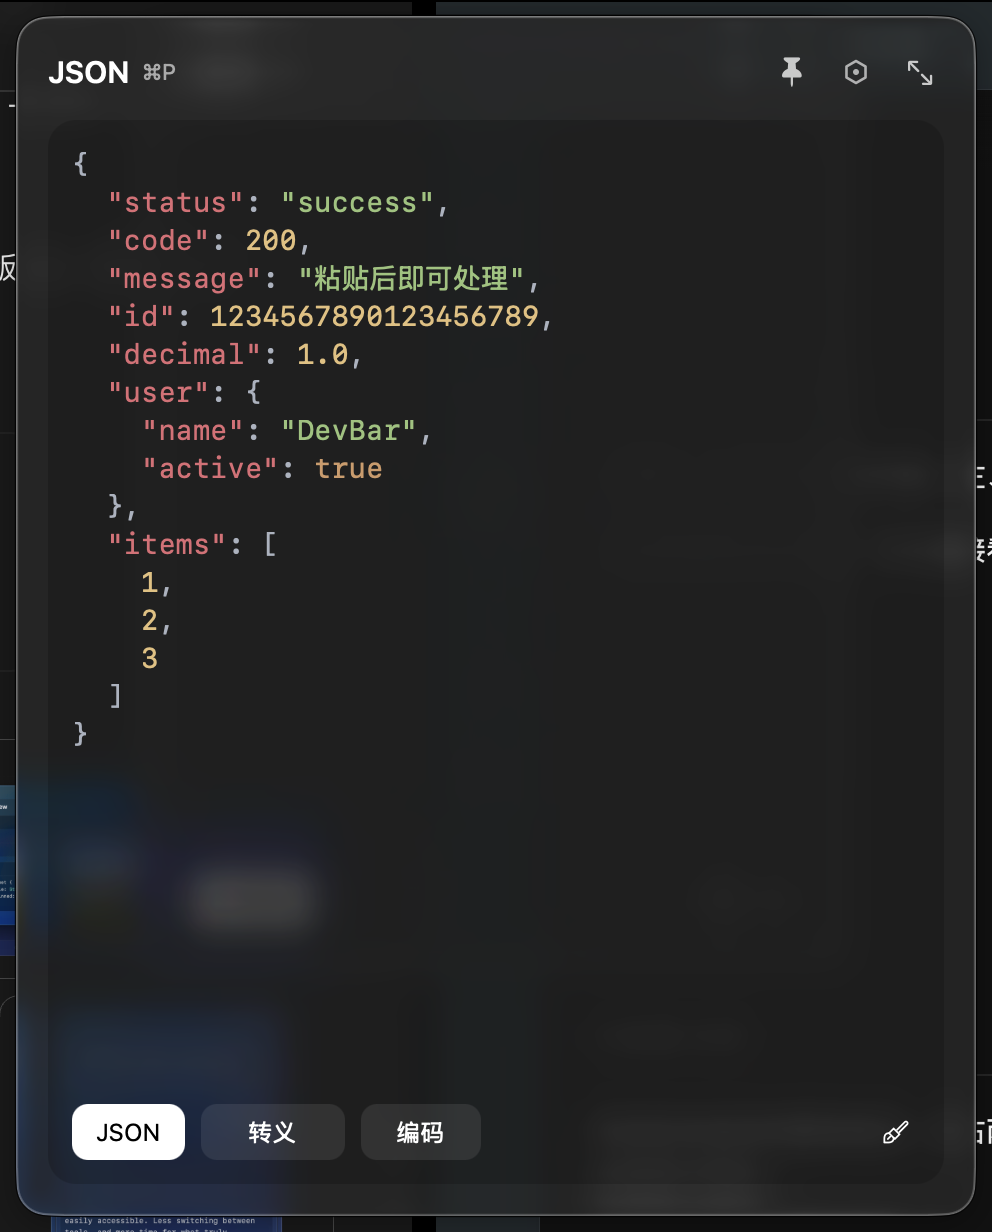
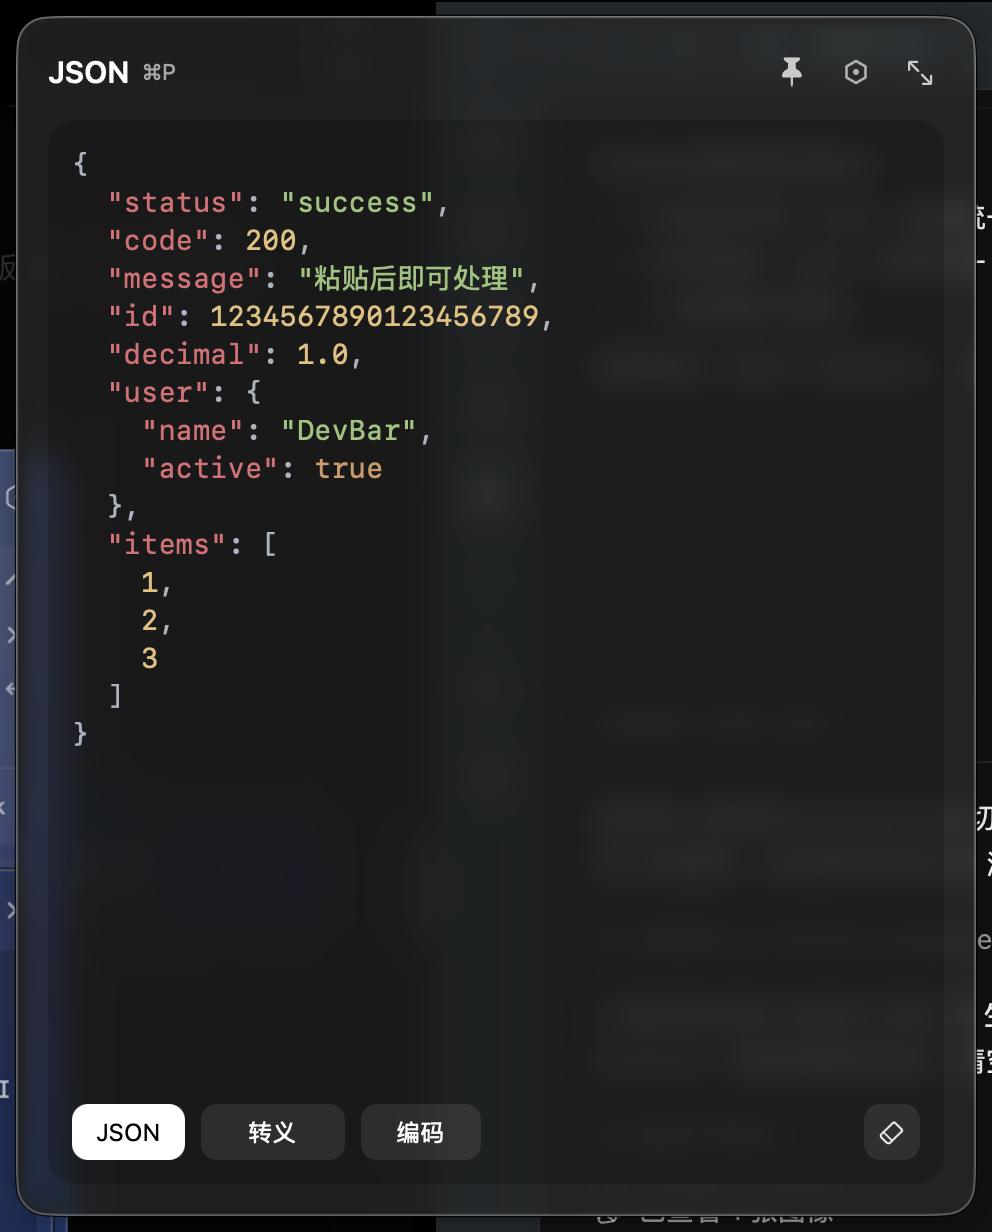
T3.7 补充：统一预览编辑文案并采用带底框的系统复制清空图标

diff --git a/Web/src/editor/page-shell.ts b/Web/src/editor/page-shell.ts
@@ -1,3 +1,5 @@
+import copySymbol from "../assets/icons/copy.png";
+import clearSymbol from "../assets/icons/clear.png";
 import { EditorView } from "@codemirror/view";
 import { StateEffect, type Extension } from "@codemirror/state";
 import {
@@ -37,6 +39,12 @@ const icons: Record<string, string> = {
 };
 export function setIcon(button: HTMLButtonElement, name: string): void {
   button.innerHTML = `<svg viewBox="0 0 24 24" fill="none" stroke="currentColor" stroke-width="1.5" stroke-linecap="round" stroke-linejoin="round" aria-hidden="true">${icons[name] ?? ""}</svg>`;
+  if (name === "copy" || name === "clear") {
+    const icon = element("span", "system-icon");
+    icon.setAttribute("aria-hidden", "true");
+    icon.style.maskImage = `url("${name === "copy" ? copySymbol : clearSymbol}")`;
+    button.replaceChildren(icon);
+  }
   button.setAttribute(
     "aria-label",
     String(strings[name as keyof typeof strings] ?? name),

diff --git a/Web/src/styles/pages.css b/Web/src/styles/pages.css
@@ -100,7 +100,7 @@
 }
 .page-fixed {
   display: flex;
-  gap: 2px;
+  gap: 8px;
   flex: none;
   align-items: center;
 }
@@ -272,4 +272,23 @@ button:disabled {
 }
 .snapshot-root .tree-buttons {
   display: none;
+}
+
+/* SF Symbols alpha masks inherit the current theme's foreground color. */
+.system-icon {
+  display: block;
+  width: 18px;
+  height: 18px;
+  background: currentColor;
+  mask-position: center;
+  mask-size: contain;
+  mask-repeat: no-repeat;
+}
+.page-fixed .icon-button {
+  display: flex;
+  align-items: center;
+  justify-content: center;
+  width: 28px;
+  height: 28px;
+  background: var(--panel-control);
 }

diff --git a/Web/src/qr/page.ts b/Web/src/qr/page.ts
@@ -14,7 +14,7 @@ export class QRPage {
   private readonly toggle: HTMLButtonElement;
   constructor(shell: PageShell) {
     this.shell = shell;
-    this.toggle = pill(strings.qr, () => {
+    this.toggle = pill(strings.preview, () => {
       void this.togglePreview();
     });
     this.toggle.classList.add("primary");
@@ -39,7 +39,7 @@ export class QRPage {
   }
   private edit(): void {
     this.shell.showPreview(false);
-    this.toggle.textContent = strings.qr;
+    this.toggle.textContent = strings.preview;
   }
   async togglePreview(): Promise<void> {
     if (this.shell.mode === "preview") {

diff --git a/Web/dev/tools-preview.html b/Web/dev/tools-preview.html
@@ -40,6 +40,12 @@
                   status: "ok",
                   text: window.testClipboard,
                 });
+              if (type === "qr.show")
+                return JSON.stringify({
+                  status: "shown",
+                  pngBase64:
[1 lines of base64/hex data omitted]
+                });
               if (type === "app.ready")
                 return JSON.stringify({
                   theme: "light",

diff --git a/Sources/DevBar/Clipboard/ClipboardListView.swift b/Sources/DevBar/Clipboard/ClipboardListView.swift
@@ -137,7 +137,7 @@ private struct ClipboardRow: View {
         Button {
           Task { await controller.remove(item.id) }
         } label: {
-          Image(systemName: "paintbrush").font(.system(size: 11)).frame(width: 20, height: 24)
+          Image(systemName: "eraser").font(.system(size: 11)).frame(width: 20, height: 24)
         }.buttonStyle(.plain).help(Strings.deleteItem)
       } else {
         Text(kindLabel).font(.system(size: 11))

diff --git a/Web/src/assets/icons/README.md b/Web/src/assets/icons/README.md
@@ -1,0 +1,5 @@
+# 系统操作图标
+
+copy.png：macOS SF Symbol `doc.on.doc`。clear.png：macOS SF Symbol `eraser`。
+
+由 AppKit 的 NSImage(systemSymbolName:accessibilityDescription:)、18pt regular 配置渲染，24pt 画布、2× PNG。Web 只使用 alpha 蒙版，以 currentColor 跟随主题；图标不含业务颜色。复制成功仍暂时显示对勾。仅作为 macOS 应用内操作图标使用。
